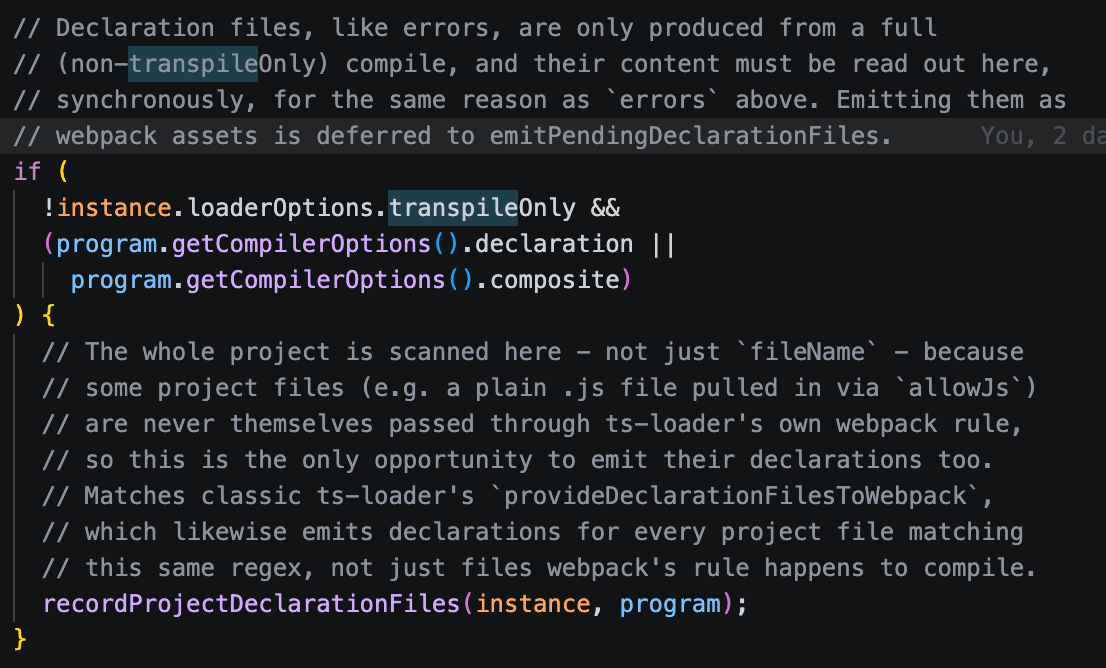
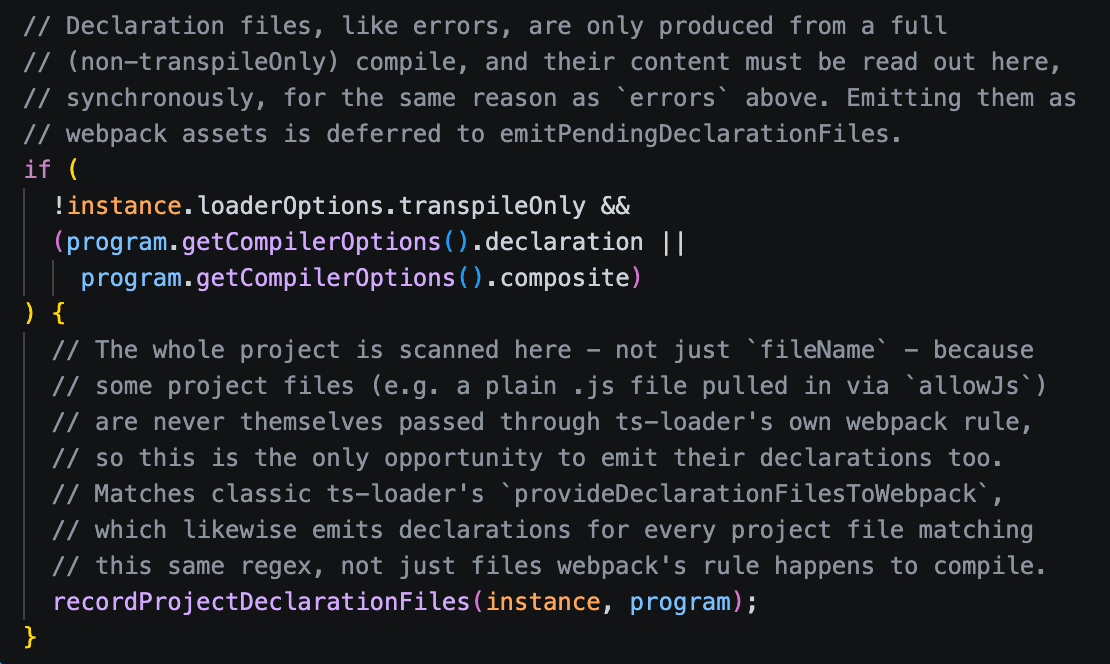
fix: nits

diff --git a/blog-website/blog/2026-07-30-ts-loader-go/index.md b/blog-website/blog/2026-07-30-ts-loader-go/index.md
@@ -23,7 +23,7 @@ I would like `ts-loader` to be able to support TypeScript 7.1 when it comes. Thi
 
 Instead I intended to use my GitHub Copilot and Claude licenses. What follows is a diary of the port. The things I did, what was useful / wasn't, the principles followed etc.
 
-In fact, let's start there: principles. These are my principles, and if you don't like them... well, I have others: (sorry - couldn't help myself)
+In fact, let's start there: principles:
 
 1. I wanted AI to do most of the work
 2. I reserved the right to not port all features The codebase of `ts-loader` is more than 10 years old, and I was pretty sure we didn't need everything that we'd accreted over the years.
@@ -36,7 +36,7 @@ I thought I'd start off by firing [this prompt at GitHub Copilot](https://github
 
 ![Screenshot of initial port prompt which reads "following the addition of the emit API in this pull request: https://github.com/microsoft/typescript-go/pull/4699 please determine what this potentially means for ts-loader See context here: https://github.com/TypeStrong/ts-loader/issues/1671#issuecomment-4937039062 Please add a comment to that PR with your findings"](./screenshot-initial-port-prompt.webp)
 
-It did some decent analysis and claimed it had added that to the issue. It had not:
+It did some decent analysis and claimed it had added the analysis to the issue. It had not:
 
 ![Screenshot of me telling GitHub Copilot it had not added a comment](./screenshot-not-added-comment-1.webp)
 
@@ -70,7 +70,7 @@ At this point I had a version of `ts-loader` that supported TypeScript 7.1. But 
 
 From here on out my workflow became pretty simple. I would point Claude at a failing comparison test, and ask it to fix it:
 
-> please fix `yarn comparison-tests --single-test basic`
+![screenshot of a terminal that reads "please fix `yarn comparison-tests --single-test basic`"](./screenshot-claude-prompt.webp)
 
 A lesson I learned early on, was to start with the simpler tests and work up to the more complex ones. I'd initially not used that approach and found that Claude was "fixing" the more complex tests in a way that broke other ones. So I started with the simpler tests and worked my way up.
 
